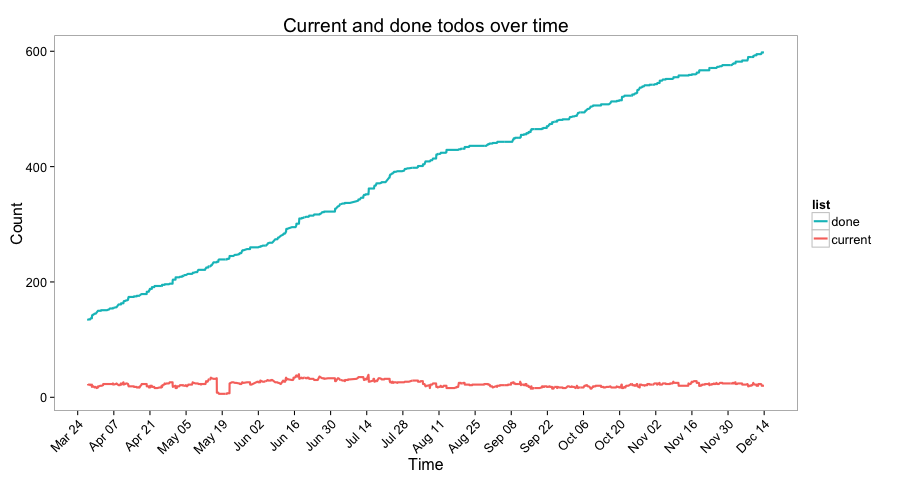
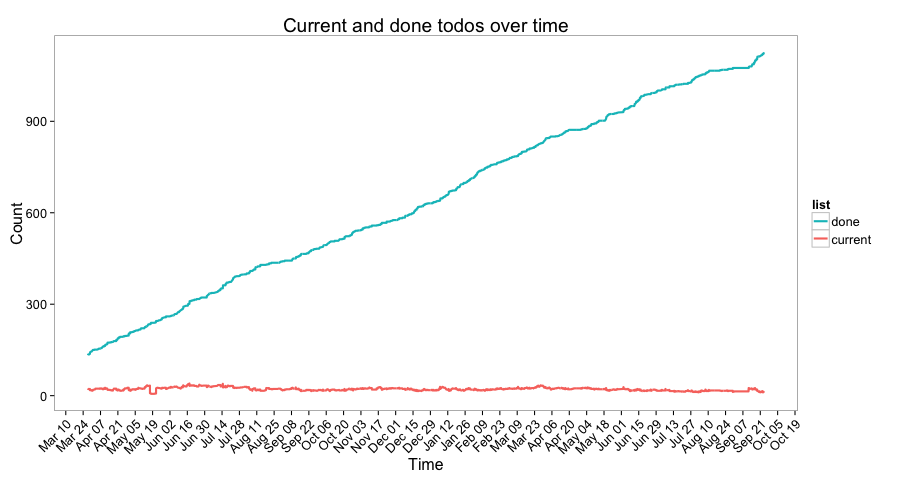
Adds a new rolling mean completed todos plot.

diff --git a/README.md b/README.md
@@ -38,6 +38,14 @@ The data look too erratic on their own, so I added a [loess][] [smoothing][] fun
 
 ![](plots/todos_completedPerDay.png)
 
+After a while, the above plot loses its usefulness. The lines are pushed against each other and, aside from the loess smoothing overlay, the viewer doesn't get any information from the line plot itself.
+
+This is a good time to use a simple [rolling mean](https://en.wikipedia.org/wiki/Moving_average "Moving average - Wikipedia, the free encyclopedia").
+
+![](plots/todos_completedPerDay_rolled.png)
+
+That's better.
+
 ### cycling
 
 My sensors don't measure which gear I'm in, so I created a pseudo "average gear" score:
